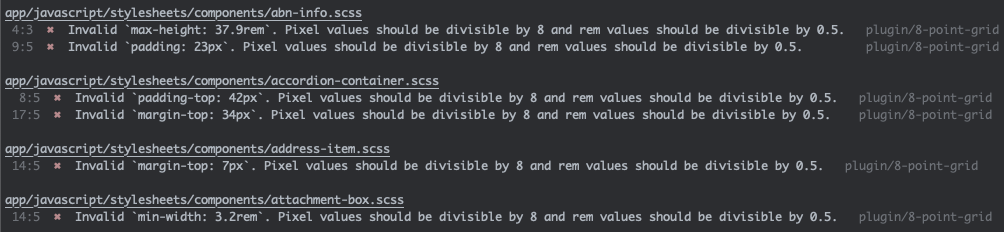
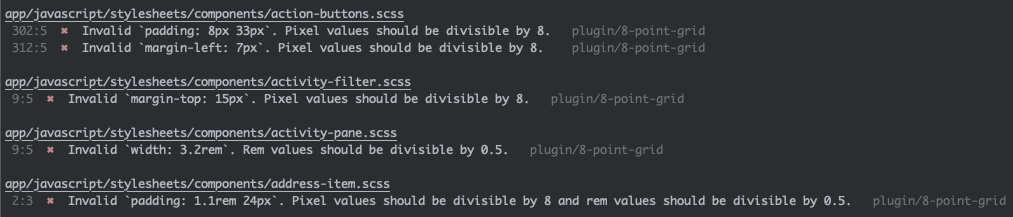
Improvements on error message (#36)
* Improvements on error message

* Bump version

diff --git a/src/index.ts b/src/index.ts
@@ -1,6 +1,12 @@
 import { createPlugin, utils } from 'stylelint'
 
-import { validBase, hasSupportedValue, validSupportedValue } from './utils'
+import {
+  validBase,
+  hasPixelValue,
+  hasRemValue,
+  hasSupportedValue,
+  validSupportedValue,
+} from './utils'
 
 const { ruleMessages, validateOptions, report } = utils
 
@@ -50,10 +56,17 @@ const valid = (value: string): boolean =>
   hasSupportedValue(value) && !String(value).match(ignorePattern)
 
 const messages = ruleMessages(ruleName, {
-  invalid: (prop, actual, base) =>
-    `Invalid \`${prop}: ${actual}\`. Pixel values should be divisible by ${base} and rem values should be divisible by ${
-      base / 16
-    }.`,
+  invalid: (prop, actual, base) => {
+    const baseRem = base / 16
+
+    if (hasPixelValue(actual) && hasRemValue(actual))
+      return `Invalid \`${prop}: ${actual}\`. Pixel values should be divisible by ${base} and rem values should be divisible by ${baseRem}.`
+
+    if (hasPixelValue(actual))
+      return `Invalid \`${prop}: ${actual}\`. Pixel values should be divisible by ${base}.`
+
+    return `Invalid \`${prop}: ${actual}\`. Rem values should be divisible by ${baseRem}.`
+  },
 })
 
 const { rule } = createPlugin(ruleName, (primaryOption) => {

diff --git a/src/utils.ts b/src/utils.ts
@@ -5,13 +5,16 @@ export const validBase = (base: number): boolean => base % 1 === 0
 export const hasSupportedValue = (value: string): boolean =>
   String(value).includes('px') || String(value).includes('rem')
 
+export const hasPixelValue = (value: string): boolean => value.includes('px')
+export const hasRemValue = (value: string): boolean => value.includes('rem')
+
 const isAllowlist = (allowlist: AllowlistType, value: string): boolean =>
   (allowlist && allowlist.includes(value)) || false
 
 const divisibleBy = (value: string, base: number): boolean => {
   const baseRem = base / 16
 
-  if (value.includes('rem')) {
+  if (hasRemValue(value)) {
     const number = parseFloat(value)
     return number % Number(baseRem) === 0
   }
